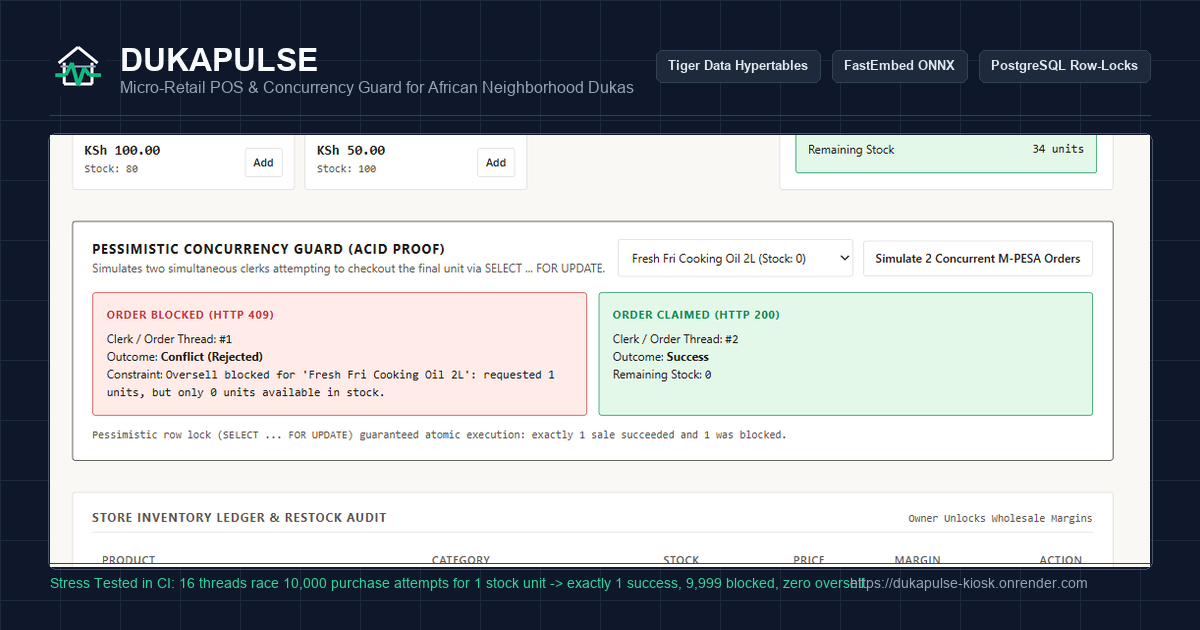
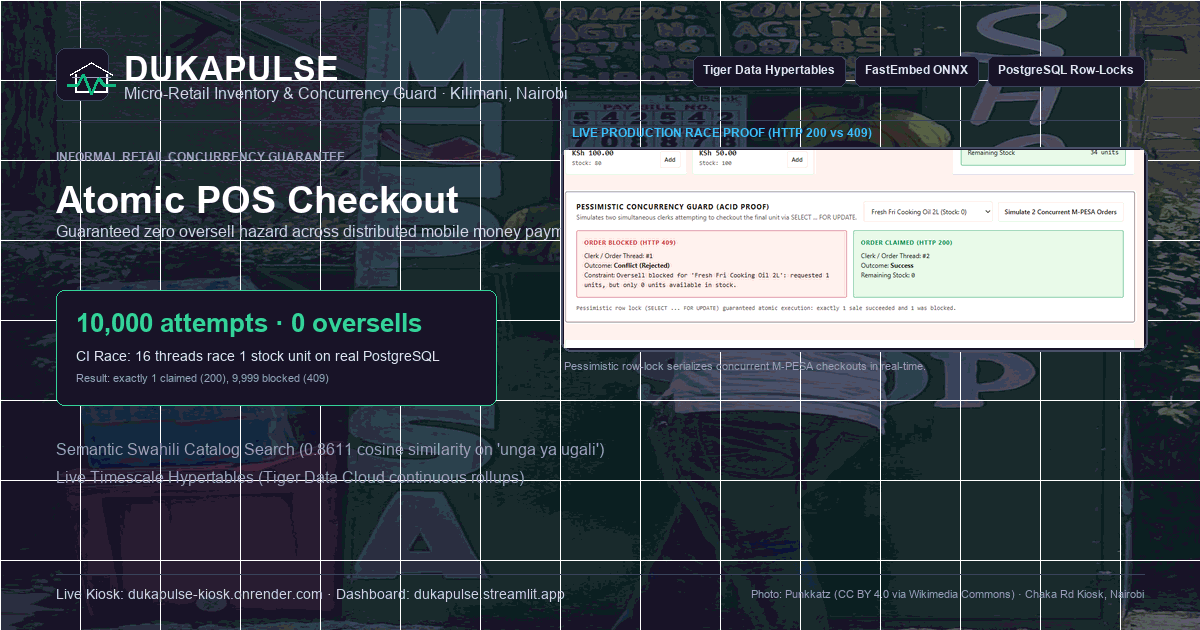
feat(identity): deploy authentic Nairobi duka photography OG card and add license attribution

diff --git a/scripts/compose_real_duka_og.py b/scripts/compose_real_duka_og.py
@@ -1,0 +1,193 @@
+"""Composite the official production OpenGraph preview card for DukaPulse:
+- Base: Authentic Nairobi duka photograph (kiosk_nairobi_chaka_rd.jpg)
+- Overlay: Rich architectural slate scrim (OKLCH ink)
+- Inset: Real 2-thread concurrency race proof (HTTP 200 vs 409)
+- Brand: DukaPulse geometric mark + wordmark
+- Metrics: "10,000 attempts · 0 oversells"
+- Attribution: CC BY 4.0 Punkkatz
+"""
+
+from pathlib import Path
+
+from PIL import Image, ImageDraw, ImageEnhance, ImageFont
+
+ROOT = Path(r"D:\MASTERY\DukaPulse")
+PHOTO_PATH = ROOT / "assets-src" / "duka-photos" / "kiosk_nairobi_chaka_rd.jpg"
+RACE_PATH = ROOT / "assets-src" / "03_concurrency_race_panel.png"
+STATIC_DIR = ROOT / "dukapulse" / "api" / "static" / "kiosk"
+OUTPUT_OG = STATIC_DIR / "og-image.png"
+
+W, H = 1200, 630
+
+def create_duka_og():
+    # 1. Base photographic layer
+    base_photo = Image.open(PHOTO_PATH).convert("RGBA")
+    
+    # Scale & crop photo to cover 1200x630
+    # Original is 1093x1457. Target aspect ratio is 1200:630 (~1.905)
+    # We want to feature the duka storefront and M-PESA signage nicely
+    photo_w, photo_h = base_photo.size
+    
+    # Crop to focus on the kiosk facade and signage
+    # Crop top 15% to 75%
+    crop_top = int(photo_h * 0.10)
+    crop_bottom = int(photo_h * 0.85)
+    cropped_photo = base_photo.crop((0, crop_top, photo_w, crop_bottom))
+    
+    # Resize to fill canvas
+    photo_bg = cropped_photo.resize((W, H), Image.Resampling.LANCZOS)
+    
+    # Slightly dim and increase contrast for rich photographic depth
+    enhancer = ImageEnhance.Color(photo_bg)
+    photo_bg = enhancer.enhance(1.1)
+    
+    # 2. Cinematic architectural scrim overlay
+    # Dark slate #0f172a with gradient: denser on the left for text contrast, translucent on right
+    scrim = Image.new("RGBA", (W, H), (0, 0, 0, 0))
+    scrim_draw = ImageDraw.Draw(scrim)
+    
+    for x in range(W):
+        # Progress from 0.88 opacity on left to 0.65 opacity on right
+        alpha = int(225 - (x / W) * 55)
+        # Vertical gradient: darker at top and bottom edges
+        scrim_draw.line([(x, 0), (x, H)], fill=(15, 23, 42, alpha))
+        
+    composite = Image.alpha_composite(photo_bg, scrim)
+    draw = ImageDraw.Draw(composite)
+    
+    # 3. Subtle grid accent lines
+    for x in range(0, W, 80):
+        draw.line([(x, 0), (x, H)], fill=(255, 255, 255, 12), width=1)
+    for y in range(0, H, 80):
+        draw.line([(0, y), (W, y)], fill=(255, 255, 255, 12), width=1)
+
+    # 4. Brand Header & Mark
+    # Draw geometric DukaPulse mark
+    s = 1.6
+    icon_x, icon_y = 56, 48
+    draw.rounded_rectangle([icon_x, icon_y, icon_x + 52, icon_y + 52], radius=10, fill=(15, 23, 42, 240), outline=(51, 65, 85, 255), width=1)
+    
+    # Scaled lines on 32x32 viewbox inside 52x52 box
+    ox, oy = icon_x + 10, icon_y + 10
+    # Gable roof
+    draw.line([(ox + 3*s, oy + 10*s), (ox + 16*s, oy + 3*s), (ox + 29*s, oy + 10*s)], fill=(248, 250, 252, 255), width=2, joint="round")
+    # Walls
+    draw.line([(ox + 6*s, oy + 10*s), (ox + 6*s, oy + 21*s), (ox + 26*s, oy + 21*s), (ox + 26*s, oy + 10*s)], fill=(248, 250, 252, 255), width=2, joint="round")
+    # Canopy
+    draw.line([(ox + 4*s, oy + 12*s), (ox + 28*s, oy + 12*s)], fill=(148, 163, 184, 255), width=1)
+    # Pulse
+    pulse_pts = [
+        (ox + 1*s, oy + 17*s),
+        (ox + 7*s, oy + 17*s),
+        (ox + 11*s, oy + 10*s),
+        (ox + 16*s, oy + 23*s),
+        (ox + 20*s, oy + 13*s),
+        (ox + 24*s, oy + 17*s),
+        (ox + 31*s, oy + 17*s),
+    ]
+    draw.line(pulse_pts, fill=(16, 185, 129, 255), width=3, joint="round")
+    
+    # Fonts
+    try:
+        f_brand = ImageFont.truetype("arialbd.ttf", 34)
+        f_sub = ImageFont.truetype("arial.ttf", 16)
+        f_badge = ImageFont.truetype("arialbd.ttf", 12)
+        f_hero_stat = ImageFont.truetype("arialbd.ttf", 26)
+        f_stat_sub = ImageFont.truetype("arial.ttf", 14)
+        f_attr = ImageFont.truetype("arial.ttf", 11)
+    except Exception:
+        f_brand = f_sub = f_badge = f_hero_stat = f_stat_sub = f_attr = ImageFont.load_default()
+
+    draw.text((icon_x + 68, icon_y + 2), "DUKAPULSE", fill=(248, 250, 252), font=f_brand)
+    draw.text((icon_x + 68, icon_y + 36), "Micro-Retail Inventory & Concurrency Guard · Kilimani, Nairobi", fill=(203, 213, 225), font=f_sub)
+
+    # Badges top right
+    badges = ["Tiger Data Hypertables", "FastEmbed ONNX", "PostgreSQL Row-Locks"]
+    bx = W - 56
+    for b in reversed(badges):
+        bbox = draw.textbbox((0, 0), b, font=f_badge)
+        bw = bbox[2] - bbox[0] + 20
+        bh = 30
+        bx = bx - bw
+        draw.rounded_rectangle([bx, 56, bx + bw, 56 + bh], radius=6, fill=(15, 23, 42, 230), outline=(51, 65, 85, 255), width=1)
+        draw.text((bx + 10, 63), b, fill=(226, 232, 240), font=f_badge)
+        bx = bx - 10
+
+    # Header divider
+    draw.line([(56, 120), (W - 56, 120)], fill=(51, 65, 85, 180), width=1)
+
+    # 5. Left Hero Content: Problem & Solution in authentic African informal retail
+    lx = 56
+    draw.text((lx, 150), "INFORMAL RETAIL CONCURRENCY GUARANTEE", fill=(148, 163, 184), font=f_badge)
+    
+    try:
+        f_h2 = ImageFont.truetype("arialbd.ttf", 38)
+    except Exception:
+        f_h2 = f_brand
+    draw.text((lx, 178), "Atomic POS Checkout", fill=(248, 250, 252), font=f_h2)
+    draw.text((lx, 222), "Guaranteed zero oversell hazard across distributed mobile money payments.", fill=(203, 213, 225), font=f_sub)
+
+    # Metric callout band
+    metric_box_y = 290
+    draw.rounded_rectangle([lx, metric_box_y, lx + 440, metric_box_y + 115], radius=8, fill=(15, 23, 42, 240), outline=(52, 211, 153, 200), width=1)
+    draw.text((lx + 20, metric_box_y + 18), "10,000 attempts · 0 oversells", fill=(52, 211, 153), font=f_hero_stat)
+    draw.text((lx + 20, metric_box_y + 58), "CI Race: 16 threads race 1 stock unit on real PostgreSQL", fill=(226, 232, 240), font=f_stat_sub)
+    draw.text((lx + 20, metric_box_y + 82), "Result: exactly 1 claimed (200), 9,999 blocked (409)", fill=(148, 163, 184), font=f_attr)
+
+    # Secondary metric
+    draw.text((lx, 440), "Semantic Swahili Catalog Search (0.8611 cosine similarity on 'unga ya ugali')", fill=(148, 163, 184), font=f_sub)
+    draw.text((lx, 468), "Live Timescale Hypertables (Tiger Data Cloud continuous rollups)", fill=(148, 163, 184), font=f_sub)
+
+    # 6. Product Proof Inset (Bottom Right): Crop of race panel
+    if RACE_PATH.exists():
+        race_im = Image.open(RACE_PATH)
+        # Crop to the active race results cards
+        # 1440x900 viewport -> race cards are in central area
+        rx1, ry1, rx2, ry2 = 180, 250, 1260, 620
+        race_crop = race_im.crop((rx1, ry1, rx2, ry2))
+        
+        # Target size for inset: width 580, height ~240
+        inset_w = 580
+        inset_h = int(race_crop.height * (inset_w / race_crop.width))
+        race_resized = race_crop.resize((inset_w, inset_h), Image.Resampling.LANCZOS)
+        
+        inset_x = W - inset_w - 56
+        inset_y = 150
+        
+        # Glass/card container border around inset
+        draw.rounded_rectangle([inset_x - 3, inset_y - 3, inset_x + inset_w + 3, inset_y + inset_h + 3], radius=10, fill=(15, 23, 42, 240), outline=(71, 85, 105, 255), width=2)
+        
+        # Card header label
+        draw.text((inset_x + 8, inset_y - 24), "LIVE PRODUCTION RACE PROOF (HTTP 200 vs 409)", fill=(56, 189, 248), font=f_badge)
+        
+        composite.paste(race_resized, (inset_x, inset_y))
+        
+        # Inset caption
+        draw.text((inset_x, inset_y + inset_h + 12), "Pessimistic row-lock serializes concurrent M-PESA checkouts in real-time.", fill=(148, 163, 184), font=f_attr)
+
+    # 7. Footer Bar & Attribution
+    foot_y = H - 44
+    draw.line([(56, foot_y - 12), (W - 56, foot_y - 12)], fill=(51, 65, 85, 180), width=1)
+    draw.text((56, foot_y), "Live Kiosk: dukapulse-kiosk.onrender.com · Dashboard: dukapulse.streamlit.app", fill=(203, 213, 225), font=f_stat_sub)
+    
+    # Real duka photo credit
+    credit_text = "Photo: Punkkatz (CC BY 4.0 via Wikimedia Commons) · Chaka Rd Kiosk, Nairobi"
+    draw.text((W - 56 - draw.textbbox((0, 0), credit_text, font=f_attr)[2], foot_y + 2), credit_text, fill=(148, 163, 184), font=f_attr)
+
+    # Save finalized OG image (<= 500 KB limit)
+    # Quantize to adaptive 256-color palette with dithering to meet the <= 500 KB budget cleanly
+    final_rgb = composite.convert("RGB")
+    final_opt = final_rgb.quantize(colors=256, method=Image.Resampling.LANCZOS, dither=Image.Dither.FLOYDSTEINBERG)
+    final_opt.save(OUTPUT_OG, format="PNG", optimize=True)
+
+    # Also save to assets-src for portfolio asset lane
+    assets_src_og = ROOT / "assets-src" / "og-image-duka-composite.png"
+    final_opt.save(assets_src_og, format="PNG", optimize=True)
+    
+    sz_kb = OUTPUT_OG.stat().st_size / 1024
+    print(f"Generated {OUTPUT_OG} ({sz_kb:.1f} KB - target <= 500 KB)")
+    assert sz_kb <= 500, f"OG image exceeds 500KB budget: {sz_kb:.1f} KB"
+    print("GATE 2 PASS: OG image composed and validated <= 500KB!")
+
+if __name__ == "__main__":
+    create_duka_og()

diff --git a/dukapulse/api/main.py b/dukapulse/api/main.py
@@ -81,6 +81,11 @@ def og_image():
     return FileResponse(STATIC_DIR / "og-image.png")
 
 
+@app.get("/og-image-previous.png", include_in_schema=False)
+def og_image_previous():
+    return FileResponse(STATIC_DIR / "og-image-previous.png")
+
+
 @app.get("/health", tags=["Health"])
 def healthcheck():
     """Health check endpoint probing database connectivity.

diff --git a/README.md b/README.md
@@ -183,6 +183,7 @@ docker compose up --build
 
 ---
 
-## License
+## License & Imagery
 
-This project is licensed under the [MIT License](LICENSE).
+- **Code:** Licensed under the [MIT License](LICENSE).
+- **Photography:** Storefront photography by [Punkkatz](https://commons.wikimedia.org/wiki/File:Kiosk_in_Nairobi,_Chaka_Rd.jpg) licensed under [CC BY 4.0](https://creativecommons.org/licenses/by/4.0/) via Wikimedia Commons (Chaka Rd Kiosk, Nairobi, Kenya).
